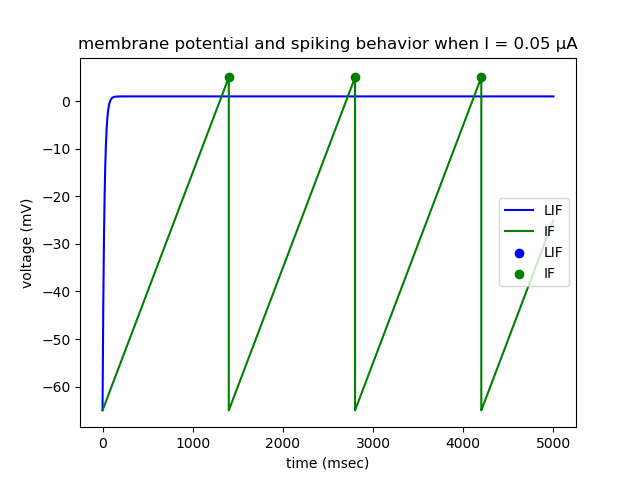
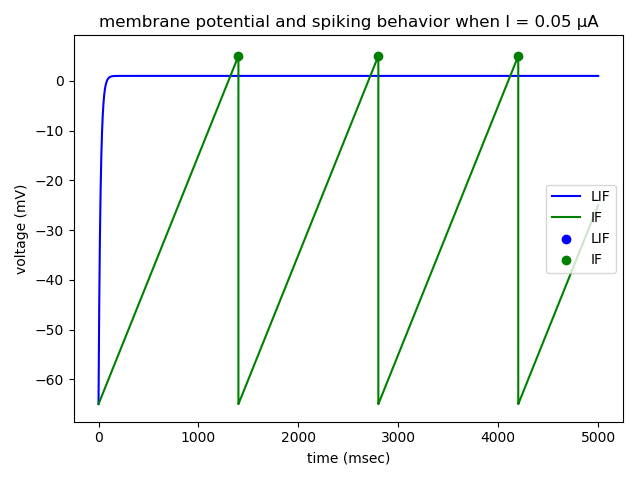
update plot

diff --git a/code/hw1.py b/code/hw1.py
@@ -92,6 +92,7 @@ class LIF(object):
             plt.title('membrane potential and spiking behavior with refractory time = ' + str(self.tRef) + ' msec')
         else:
             plt.title('membrane potential and spiking behavior')
+        plt.tight_layout()
         if fn_save is not None:
             plt.savefig('../docs/plots/' + fn_save)
         plt.show()
@@ -189,6 +190,7 @@ class Izhikevich(object):
         plt.ylabel('voltage (mV)')
         plt.legend(loc = 5)
         plt.title('membrane potential and spiking behavior')
+        plt.tight_layout()
         if fn_save is not None:
             plt.savefig('../docs/plots/' + fn_save)
         plt.show()
@@ -397,6 +399,7 @@ class HodgkinHuxley(object):
             plt.title('membrane potential when input currents last for first ' + str(self.stepNum / 2 * self.dt) + ' msecs')
         else:
             plt.title('membrane potential')
+        plt.tight_layout()
         if fn_save is not None:
             plt.savefig('../docs/plots/' + fn_save)
         plt.show()
@@ -412,6 +415,7 @@ class HodgkinHuxley(object):
                 plt.title('parameter m when input currents last for first ' + str(self.stepNum / 2 * self.dt) + ' msecs')
             else:
                 plt.title('parameter m')
+            plt.tight_layout()
             plt.show()
 
             for i in range(self.simulationNum):
@@ -424,6 +428,7 @@ class HodgkinHuxley(object):
                 plt.title('parameter h when input currents last for first ' + str(self.stepNum / 2 * self.dt) + ' msecs')
             else:
                 plt.title('parameter h')
+            plt.tight_layout()
             plt.show()
 
             for i in range(self.simulationNum):
@@ -436,6 +441,7 @@ class HodgkinHuxley(object):
                 plt.title('parameter n when input currents last for first ' + str(self.stepNum / 2 * self.dt) + ' msecs')
             else:
                 plt.title('parameter n')
+            plt.tight_layout()
             plt.show()
         return    
 
@@ -507,6 +513,7 @@ def Q2(minCurrent, maxCurrent, currentStepSize, timeWindow, capitance,
     plt.xlabel('current (μA)')
     plt.ylabel('firing rate (Hz)')
     plt.title('firing rate vs. input current')
+    plt.tight_layout()
     if fn_save is not None:
         plt.savefig('../docs/plots/' + fn_save)
     plt.show()
@@ -619,6 +626,7 @@ def Q6(initCurrent, timeWindow, capitance = 1, gK = 36, gNa = 120, gL = 0.3, VK 
     plt.ylabel('voltage (mV)')
     plt.legend(loc = 5)
     plt.title('membrane potential when I = ' + str(initCurrent) + ' μA')
+    plt.tight_layout()
     if fn_save is not None:
         plt.savefig('../docs/plots/' + fn_save)
     plt.show()
@@ -634,6 +642,7 @@ def Q6(initCurrent, timeWindow, capitance = 1, gK = 36, gNa = 120, gL = 0.3, VK 
         plt.ylabel('voltage (mV)')
         plt.legend(loc = 5)
         plt.title('parameter m when I = ' + str(initCurrent) + ' μA')
+        plt.tight_layout()
         plt.show()
 
         line, = plt.plot(time, HH0.parameterH[:, 0], c = 'b')
@@ -646,6 +655,7 @@ def Q6(initCurrent, timeWindow, capitance = 1, gK = 36, gNa = 120, gL = 0.3, VK 
         plt.ylabel('voltage (mV)')
         plt.legend(loc = 5)
         plt.title('parameter h when I = ' + str(initCurrent) + ' μA')
+        plt.tight_layout()
         plt.show()
 
         line, = plt.plot(time, HH0.parameterN[:, 0], c = 'b')
@@ -658,6 +668,7 @@ def Q6(initCurrent, timeWindow, capitance = 1, gK = 36, gNa = 120, gL = 0.3, VK 
         plt.ylabel('voltage (mV)')
         plt.legend(loc = 5)
         plt.title('parameter n when I = ' + str(initCurrent) + ' μA')
+        plt.tight_layout()
         plt.show()
     return
 
@@ -702,8 +713,10 @@ def EX1(initCurrent, timeWindow, capitance, resistance, vRest, vThreshold, dt = 
     plt.ylabel('voltage (mV)')
     plt.title('membrane potential and spiking behavior when I = ' + str(initCurrent) + ' μA')
     plt.legend(loc = 5)
+    plt.tight_layout()
     if fn_save is not None:
         plt.savefig('../docs/plots/' + fn_save)
+    plt.tight_layout()
     plt.show()
     return
 
@@ -752,6 +765,7 @@ def EX2(minCurrent, maxCurrent, currentStepSize, timeWindow, capitance, resistan
     plt.ylabel('firing rate (Hz)')
     plt.legend(loc = 5)
     plt.title('firing rate vs. input current')
+    plt.tight_layout()
     if fn_save is not None:
         plt.savefig('../docs/plots/' + fn_save)
     plt.show()
@@ -791,6 +805,7 @@ def EX3(initCurrent, timeWindow, capitance, resistance, vRest, vThreshold, dt = 
     plt.ylabel('voltage (mV)')
     plt.title('terms in LIF model when I = ' + str(initCurrent) + ' μA')
     plt.legend(loc = 5)
+    plt.tight_layout()
     if fn_save is not None:
         plt.savefig('../docs/plots/' + fn_save)
     plt.show()
@@ -888,6 +903,7 @@ def EX5(minCurrent, maxCurrent, currentStepSize, timeWindow, capitance, resistan
     plt.ylabel('firing rate (Hz)')
     plt.legend(loc = 4)
     plt.title('firing rate vs. input current')
+    plt.tight_layout()
     if fn_save is not None:
         plt.savefig('../docs/plots/' + fn_save)
     plt.show()
